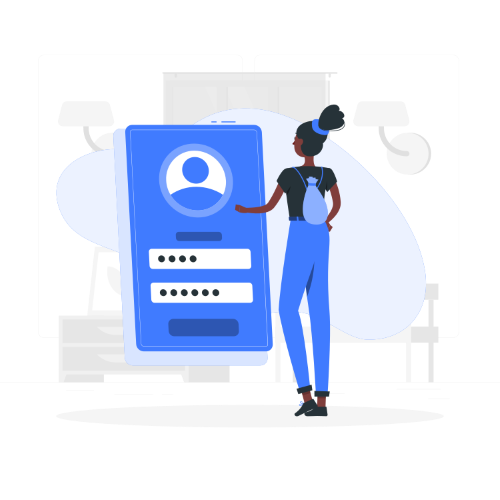
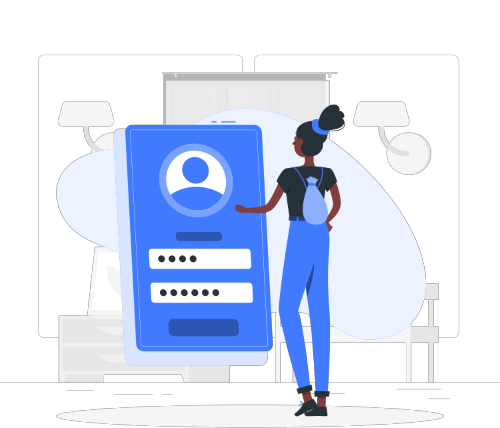
card & card-img adjusted

diff --git a/CSS/index-Responsive.css b/CSS/index-Responsive.css
@@ -77,7 +77,7 @@ html {
     line-height: 1.2;
   }
   .card {
-    height: 37rem;
+    height: 40rem;
   }
   .cta-btn,
   .cta-btn2 {
@@ -193,13 +193,14 @@ html {
     text-align: justify;
     background: none;
     padding: 2rem;
-    width: 43rem;
+    width: 65%;
+    height: 100%;
   }
   .icon-wrapper {
     overflow: unset;
   }
   .card-img {
-    width: 115%;
+    width: 55%;
     height: auto;
   }
   .footer-container {
@@ -241,6 +242,15 @@ html {
   }
   .hero {
     grid-template-columns: 60% 40%;
+  }
+  .card {
+    height: 100%;
+  }
+  .card-img {
+    width: 60%;
+  }
+  .template-heading {
+    text-align: center;
   }
   .footer-container {
     grid-template-columns: 1.5fr;
@@ -338,7 +348,6 @@ html {
     font-size: 3rem;
   }
   .icon-wrapper {
-    max-width: none;
     width: 100%;
     margin-bottom: 2rem;
   }
@@ -386,8 +395,12 @@ html {
     gap: 0.7rem;
     justify-content: center;
   }
+  .card {
+    width: 75%;
+    height: 100%;
+  }
   .card-img {
-    width: 50%;
+    width: 60%;
   }
   .template-heading {
     text-align: center;
@@ -400,6 +413,13 @@ html {
 @media (max-width: 506px) {
   .logo-close-btn {
     width: 48%;
+  }
+  .card {
+    width: 90%;
+    height: 100%;
+  }
+  .card-img {
+    width: 55%;
   }
   .signup-wrapper {
     padding: 1rem 1rem;
@@ -545,7 +565,14 @@ html {
     font-size: 1.2rem;
   }
   .card {
-    width: 35rem;
-    height: 34rem;
+    width: 100%;
+    height: 100%;
+  }
+  .contacts {
+    font-size: 1.2rem;
+  }
+  .address-link:link,
+  .address-link:visited {
+    font-size: 1.2rem;
   }
 }

diff --git a/CSS/Exedus.css b/CSS/Exedus.css
@@ -241,14 +241,13 @@ header {
   display: flex;
   align-items: center;
   justify-content: center;
-  max-width: 19rem;
   max-height: 13rem;
   margin-bottom: 3.9rem;
   overflow: hidden;
 }
 .card-img {
   width: 100%;
-  height: auto;
+  height: 100%;
 }
 .card-heading {
   margin-bottom: 1.7rem;
@@ -260,7 +259,7 @@ header {
   margin-right: 0rem;
   display: flex;
   align-self: flex-start;
-  margin-top: auto;
+  margin-top: 3rem;
 }
 
 /* FOOTER */
